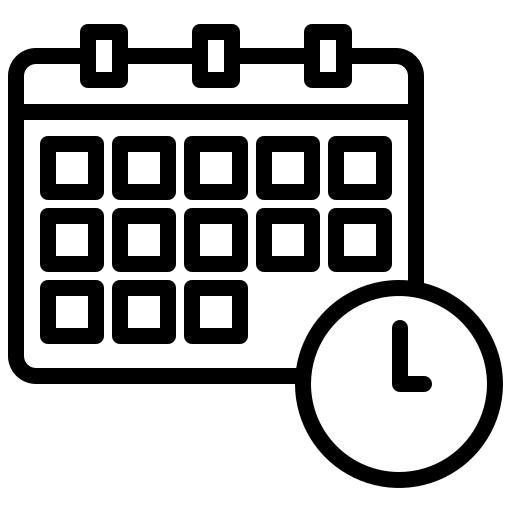
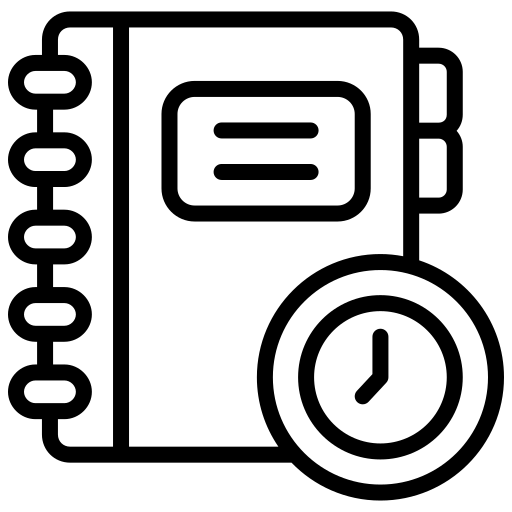
feature: ajustado icones do dashboard do perfil medico

diff --git a/medicos/templates/medicos/perfil.html b/medicos/templates/medicos/perfil.html
@@ -2,4 +2,66 @@
 
 {% load static %}
 
+{% block botoes %}
+<section class="right_menu">
+  {% block profile-title %}
+      <h1 class="titulo">O QUE VOCÊ DESEJA ACESSAR?</h1>
+  {% endblock profile-title %}
 
+  {% block accounts_container %}
+  {% endblock accounts_container %}
+
+  <div class="botoes">
+      <div class="btn_main">
+          <a href="{% url 'accounts:update_user'%}">
+              <img src="{% static 'img/dashboard/icone_alterar_nome.png' %}" alt="ícone ilustrativo clínica">
+              <h2>alterar<br>usuário e e-mail</h2>
+          </a>
+      </div>
+
+      <div class="btn_main">
+          <a href="{% url 'accounts:update_password'%}">
+              <img src="{% static 'img/dashboard/icone_alterar_senha.png' %}" alt="ícone ilustrativo clínica">
+              <h2>alterar<br>senha</h2>
+          </a>
+      </div>
+      
+      <div class="btn_main">
+          <a href="{% url 'clientes:cliente_atualizar'%}">
+              <img src="{% static 'img/dashboard/perfil_icon/icone_02.png' %}" alt="ícone ilustrativo clínica">
+              <h2>atualizar<br>meus dados</h2>
+          </a>
+      </div>
+
+      {% if request.user.is_staff or request.user.is_superuser %}
+          <div class="btn_main">
+              <a href="{% url 'medicos:agenda_lista'%}">
+                  <img id="centralize" src="{% static 'img/dashboard/icone_calendario.png' %}" alt="ícone ilustrativo agendamento">
+                  <h2>horários<br>disponíveis</h2>
+              </a>
+          </div>
+          
+          <div class="btn_main">
+              <a href="{% url 'medicos:medicos_lista'%}">
+                  <img src="{% static 'img/dashboard/icone_agenda.png' %}" alt="ícone perfil funcionário">
+                  <h2>minha agenda</h2>
+              </a> 
+          </div>
+
+          <div class="btn_main">
+              <a href="{% url 'medicos:especialidade_lista'%}">
+                  <img src="{% static 'img/dashboard/icone_paciente.png' %}" alt="ícone perfil paciente">
+                  <h2>prontuários</h2>
+              </a>
+          </div>
+      {% endif %}
+
+      {% comment %} <div class="btn_main">
+          <a href="#">
+              <img src="{% static 'img/dashboard/icone_clinica.png' %}" alt="ícone ilustrativo clínica">
+              <h2>DADOS DA<br>CLÍNICA</h2>
+          </a>
+      </div> {% endcomment %}
+  </div>
+</section>
+{% endblock botoes %}
